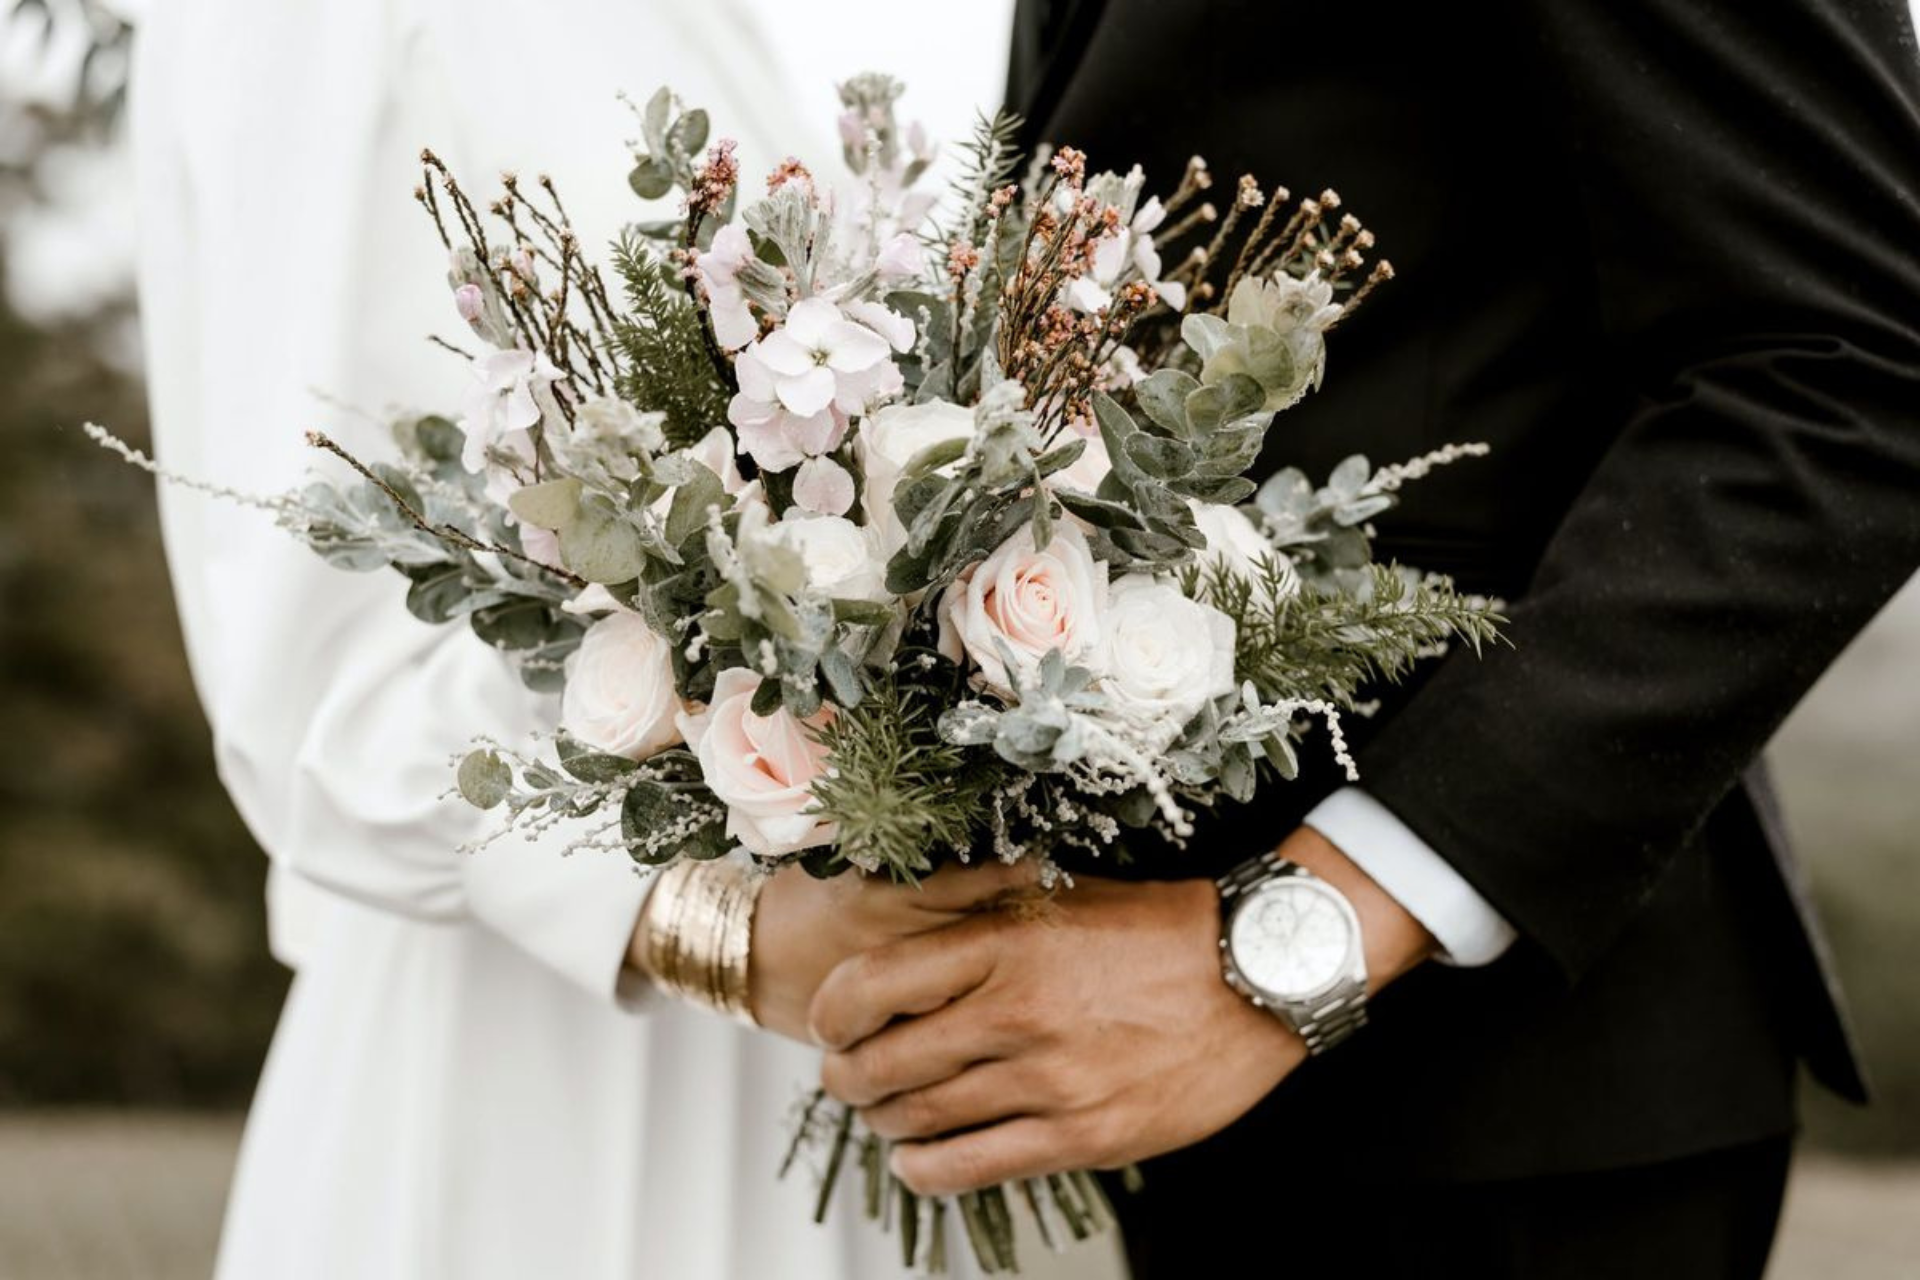
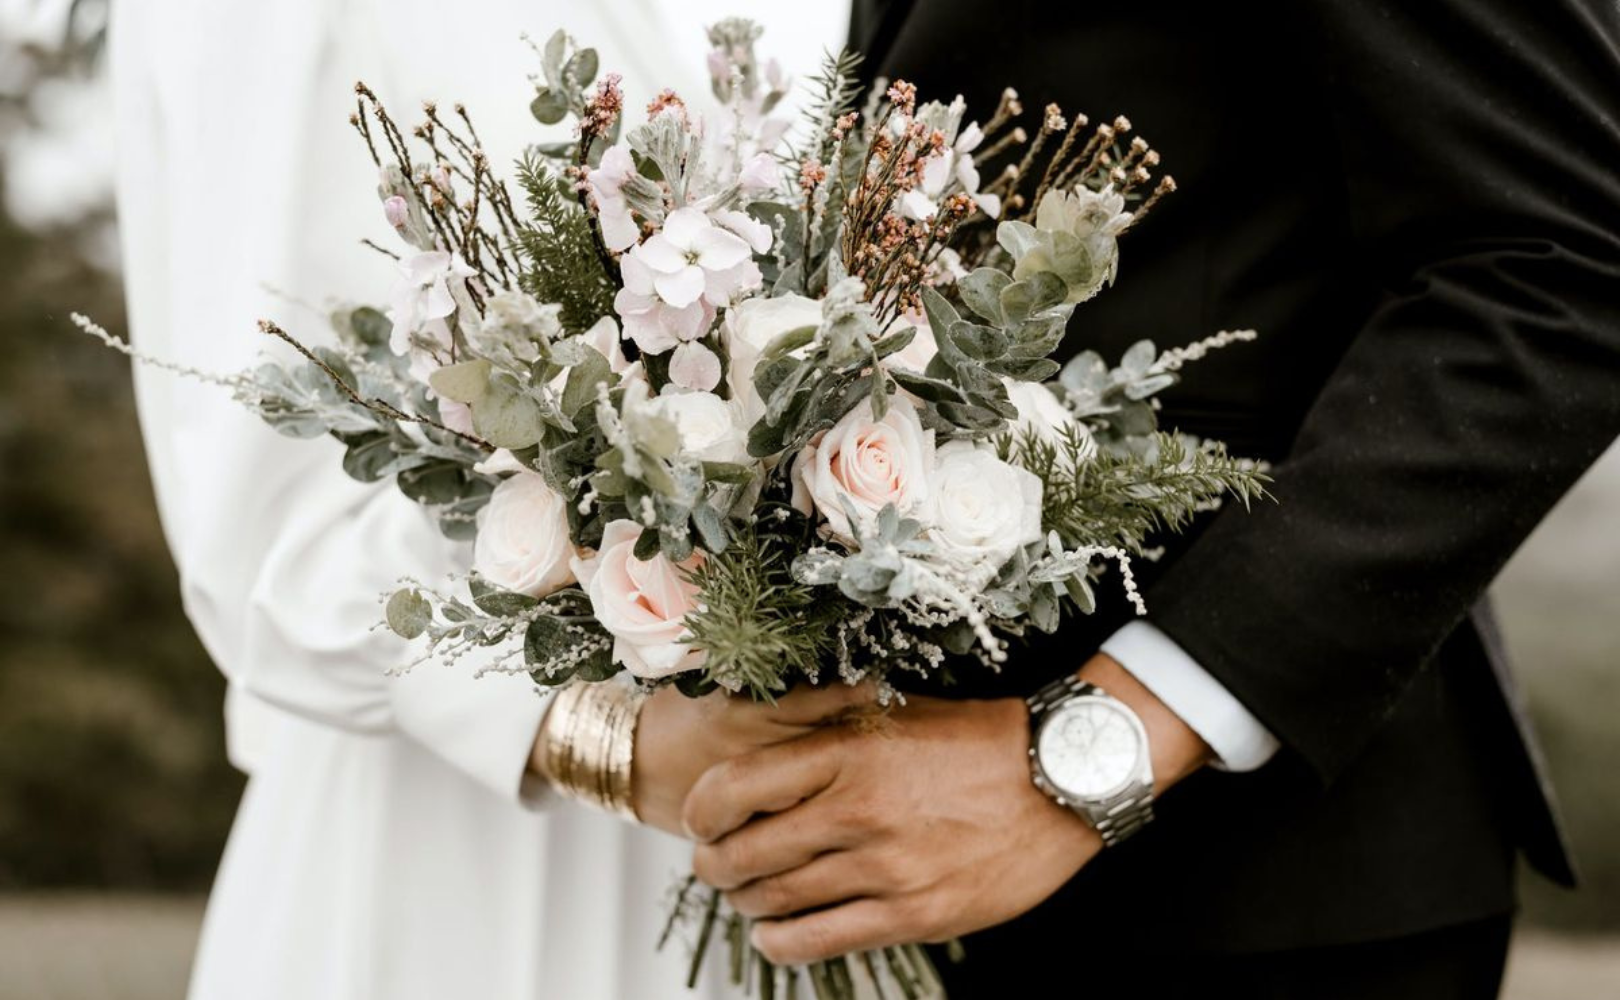
add background

diff --git a/style.css b/style.css
@@ -17,7 +17,7 @@ body {
     left: 0;
     width: 100%;
     height: 100%;
-    background-image: url(img/);
+    background-image: url(img/background.png);
     z-index: -1;
 }
 
